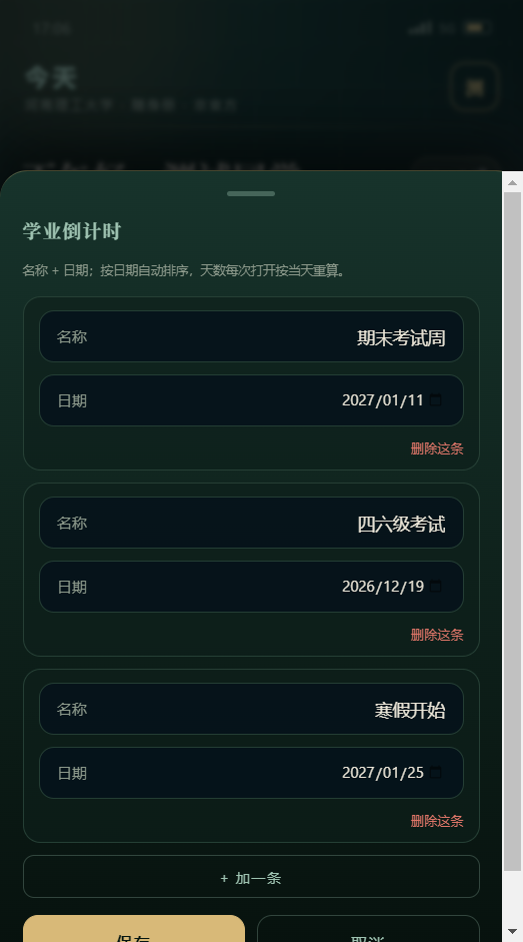
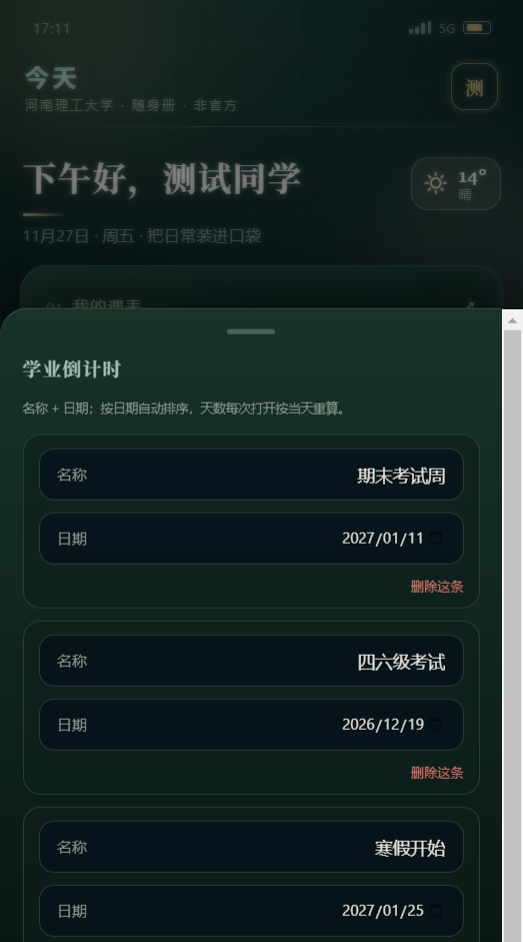
首页顺序调整：我的课表提到最上，其次是学期进度、学业倒计时；1.1.2

diff --git a/android/app/src/main/assets/index.html b/android/app/src/main/assets/index.html
@@ -723,6 +723,16 @@ html[data-theme="ink"]{
         </div>
       </div>
 
+      <div class="hero" id="homeHero">
+        <div class="hero-top"><span class="ht"><b>01</b>我的课表</span><span class="arr" id="homeGoTt">↗</span></div>
+        <div class="hdhead">
+          <b id="homeDayTitle">今天 · 第 13 周</b>
+          <span id="homeDayMeta">3 节课</span>
+        </div>
+        <div id="homeDayList" class="hdlist"></div>
+        <button class="btn mint" id="homeImport">导入课表</button>
+      </div>
+
       <div class="termbar" id="homeTermBar">
         <div class="tb-top"><b id="homeTermLabel">第 13 周 · 共 20 周</b><span id="homeTermLeft">还有 7 周</span></div>
         <div class="tb-track"><i id="homeTermFill" style="width:65%"></i></div>
@@ -732,16 +742,6 @@ html[data-theme="ink"]{
       <div class="card cdhome" id="homeCdCard">
         <div class="card-title"><h2>学业倒计时</h2><span class="more" id="cdEdit" style="cursor:pointer">编辑</span></div>
         <div id="cdList"></div>
-      </div>
-
-      <div class="hero" id="homeHero">
-        <div class="hero-top"><span class="ht"><b>01</b>我的课表</span><span class="arr" id="homeGoTt">↗</span></div>
-        <div class="hdhead">
-          <b id="homeDayTitle">今天 · 第 13 周</b>
-          <span id="homeDayMeta">3 节课</span>
-        </div>
-        <div id="homeDayList" class="hdlist"></div>
-        <button class="btn mint" id="homeImport">导入课表</button>
       </div>
 
       <div class="card sect" id="homeGradeCard" data-go="grades">
@@ -1086,7 +1086,7 @@ function _asyncToGenerator(n) { return function () { var t = this, e = arguments
   var $ = s => document.querySelector(s);
   var $$ = s => Array.from(document.querySelectorAll(s));
   // 版本号：改这两行，设置页/页脚/缓存标记一起变
-  var APP_VERSION = '1.1.1';
+  var APP_VERSION = '1.1.2';
   var APP_BUILD = '2026-11-27';
   var AUTHOR = '刷子';
   // 是否跑在桌面 WebView 壳里（壳注入 window.hpu）

diff --git a/手机端原型.html b/手机端原型.html
@@ -724,6 +724,16 @@ html[data-theme="ink"]{
         </div>
       </div>
 
+      <div class="hero" id="homeHero">
+        <div class="hero-top"><span class="ht"><b>01</b>我的课表</span><span class="arr" id="homeGoTt">↗</span></div>
+        <div class="hdhead">
+          <b id="homeDayTitle">今天 · 第 13 周</b>
+          <span id="homeDayMeta">3 节课</span>
+        </div>
+        <div id="homeDayList" class="hdlist"></div>
+        <button class="btn mint" id="homeImport">导入课表</button>
+      </div>
+
       <div class="termbar" id="homeTermBar">
         <div class="tb-top"><b id="homeTermLabel">第 13 周 · 共 20 周</b><span id="homeTermLeft">还有 7 周</span></div>
         <div class="tb-track"><i id="homeTermFill" style="width:65%"></i></div>
@@ -733,16 +743,6 @@ html[data-theme="ink"]{
       <div class="card cdhome" id="homeCdCard">
         <div class="card-title"><h2>学业倒计时</h2><span class="more" id="cdEdit" style="cursor:pointer">编辑</span></div>
         <div id="cdList"></div>
-      </div>
-
-      <div class="hero" id="homeHero">
-        <div class="hero-top"><span class="ht"><b>01</b>我的课表</span><span class="arr" id="homeGoTt">↗</span></div>
-        <div class="hdhead">
-          <b id="homeDayTitle">今天 · 第 13 周</b>
-          <span id="homeDayMeta">3 节课</span>
-        </div>
-        <div id="homeDayList" class="hdlist"></div>
-        <button class="btn mint" id="homeImport">导入课表</button>
       </div>
 
       <div class="card sect" id="homeGradeCard" data-go="grades">
@@ -1074,7 +1074,7 @@ html[data-theme="ink"]{
   const $ = s => document.querySelector(s);
   const $$ = s => Array.from(document.querySelectorAll(s));
   // 版本号：改这两行，设置页/页脚/缓存标记一起变
-  const APP_VERSION = '1.1.1';
+  const APP_VERSION = '1.1.2';
   const APP_BUILD = '2026-11-27';
   const AUTHOR = '刷子';
   // 是否跑在桌面 WebView 壳里（壳注入 window.hpu）

diff --git a/tools/_panel-shot.js b/tools/_panel-shot.js
@@ -36,6 +36,13 @@ app.whenReady().then(async () => {
   const out = path.join(__dirname, '..', '预览图');
   fs.mkdirSync(out, { recursive: true });
 
+  // 回到页面顶部再拍
+  await win.webContents.executeJavaScript(`(() => {
+    document.querySelectorAll('.screens, #s-home, body, html').forEach(e => { if (e) e.scrollTop = 0; });
+    window.scrollTo(0, 0);
+  })()`, true);
+  await new Promise((r) => setTimeout(r, 500));
+
   const shot1 = await win.capturePage();
   fs.writeFileSync(path.join(out, '首页倒计时.png'), shot1.toPNG());
   console.log('shot1', shot1.toPNG().length);
